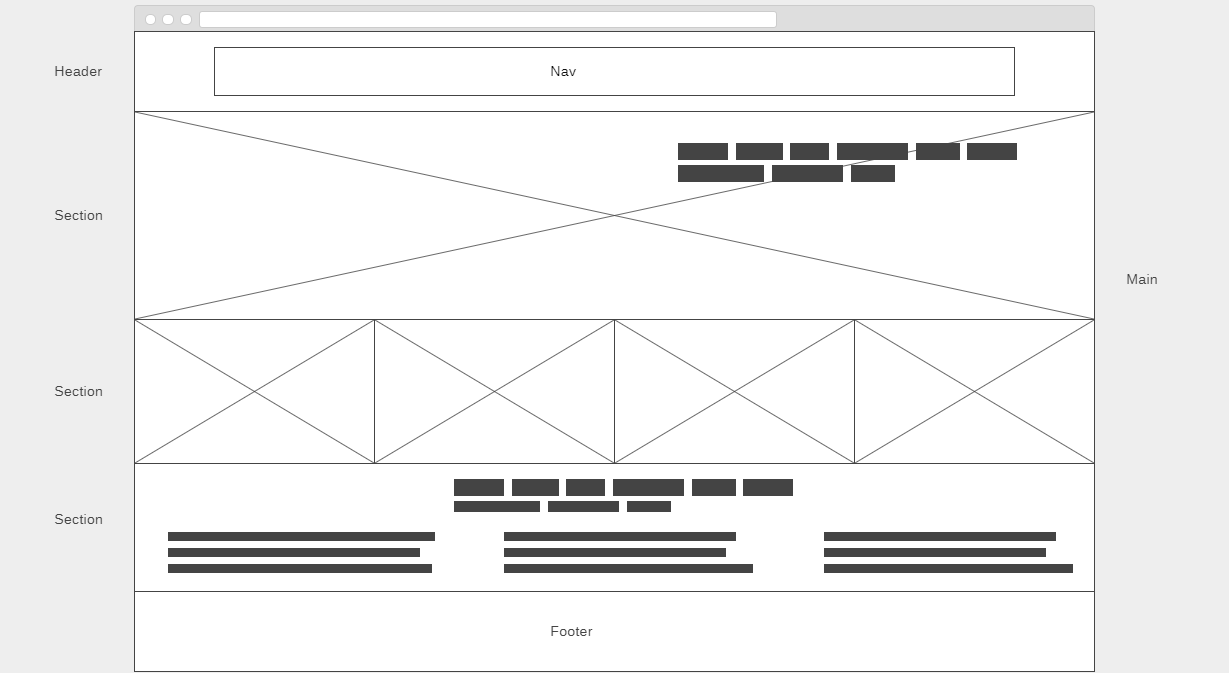
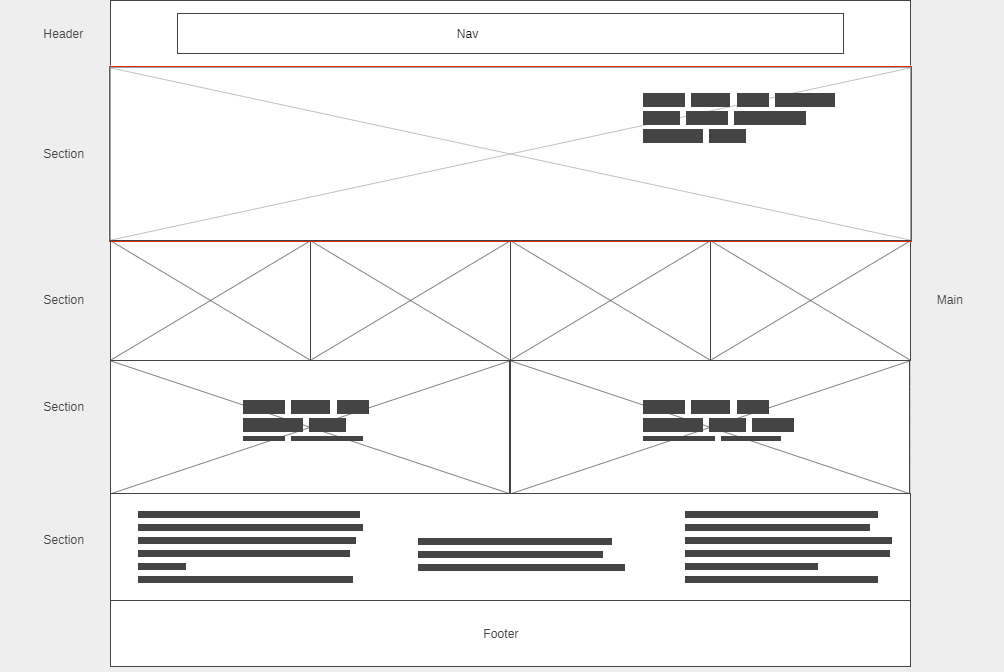
mockup unit 5

diff --git a/unit_5/index.html b/unit_5/index.html
@@ -1,0 +1,111 @@
+<!DOCTYPE html>
+<html>
+<head>
+	<title>Precious Pears</title>
+	<link rel="stylesheet" type="text/css" href="css/style.css">
+</head>
+<body>
+	<header>
+		<p id="logo">Precious Pears</p>
+		<nav>
+			<a href="#">newborn</a>
+			<a href="#">baby</a>
+			<a href="#">swim</a>
+			<a href="#">sleep</a>
+			<a href="#">sale</a>
+		</nav>
+		<div>
+			<a href="#">Login</a>
+			<a href="#">Signup</a>
+			<a href="#">Cart</a>
+			<p>Free Shipping, No Minimum</p> <!-- figure out how to better place-->
+		</div>
+	</header>
+
+	<main>
+		<section id="intro">
+			<h1>Comfortable clothing for full-figured babies</h1> 
+			<p>Stretchy waistbands, loose necklines, and wide sleeves in the softest and most breathable materials</p>
+			<h3><a href="#">shop now</a></h3>
+		</section>
+ 
+		<section>
+			<h2>Shop our latest fashions</h2>
+			<div id="newborn">
+				<a href="#">newborn</a>
+			</div>
+			<div id="baby">
+				<a href="#">baby</a>
+			</div>
+			<div id="swim">
+				<a href="#">swim</a>
+			</div>
+			<div id="sleep">
+				<a href="#">sleep</a>
+			</div>
+		</section>
+
+		<section id="summer">
+			<h2><a href="#">View our summer collection</a></h2>
+			<p>Only the best, most breathable fabrics</p>
+		</section>
+
+		<section>
+			<h2>Shop with confidence</h2>
+			<p>Fast, free shipping with no minimum</p>
+			<p>Free 90-day returns</p>
+		</section>
+
+		<section>
+			<h2>Our customers say</h2>
+			<blockquote>
+				<q>It's such a relief that there is a clothing company that makes clothes for larger babies!  Now I don't need to buy size 24 month clothing for my 10 month old.</q>
+				<cite>Meshal, Mom of Ollie</cite>
+			</blockquote>
+			<blockquote>
+				<q>...such great quality and the softest material out there. I want my large baby to be comfortable!</q>
+				<cite>Jennifer, Mom of Lyla</cite>
+			</blockquote>
+			<blockquote> 
+				<q>Finally! Drawstrings big enough to fit my little one's belly.</q>
+				<cite>Ethan, Dad of Henry</cite>
+			</blockquote>
+		</section>
+
+		<section>
+			<h2>Share photos of your #preciouspears</h2>
+			<p><a href="#">view gallery</a></p>
+			<p><a href="#">upload pics</a></p>
+			<img src="images/Henryinromper.JPG" alt="romper" title="romper">
+			<img src="images/Henrybighead.JPG" alt="Henrysmile" title="Henrysmile">
+			<img src="images/henrypicnic.JPG" alt="babypicnic" title="babypicnic">
+			<img src="images/henrysummer.JPG" alt="babyoutsidewithbottle" title="baby outside with bottle">
+		</section>
+	</main>
+
+	<footer>
+		<nav>
+			<a href="mailto:preciouspears@example.com">contact us</a>
+			<a href="#">about us</a>
+			<a href="#">returns</a>
+			<a href="#">careers</a>
+			<a href="#">gift cards</a>
+			<a href="#">terms of service</a>
+			<a href="#">privacy</a>
+			<a href="#">site map</a>
+		</nav>
+		<div>
+			<h4>Follow us</h4>
+			<a href="#">facebook</a>
+			<a href="#">twitter</a>
+			<a href="#">instagram</a>
+		</div>
+		<div>
+			<p>&copy; 2017</p>
+			<p>All rights reserved</p>
+			<p>Precious Pears, Inc. NY, NY</p>
+		</div>
+	</footer>
+
+</body>
+</html>
